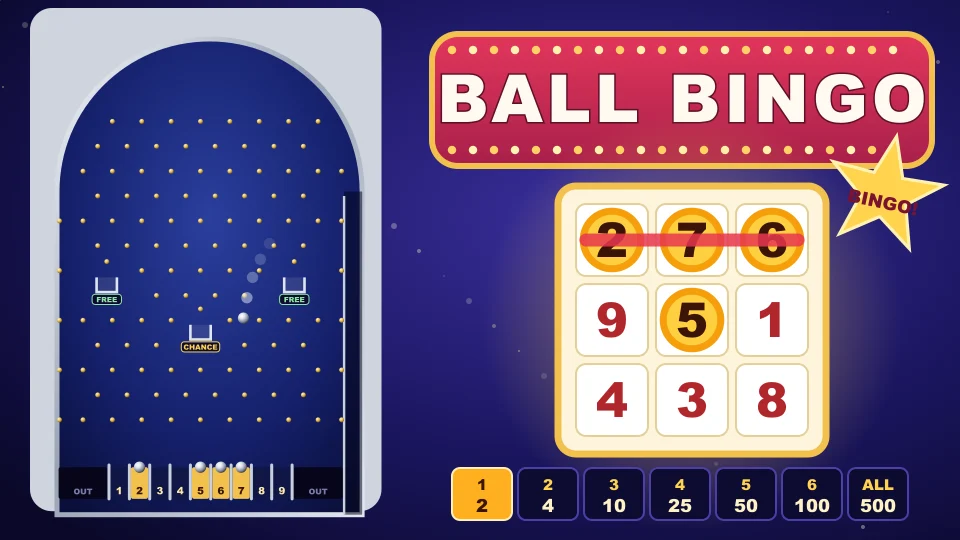
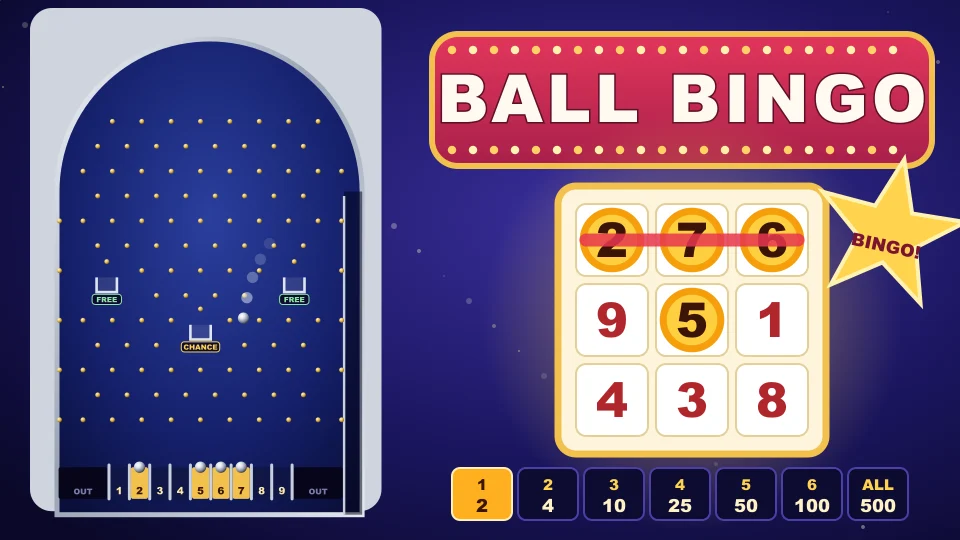
test(ball-bingo): each game goes into My Page; the cover's star says BINGO! in full

Changed region(s): [[0.8438, 0.237, 1.0, 0.563]]

diff --git a/tests/e2e/ball-bingo.spec.ts b/tests/e2e/ball-bingo.spec.ts
@@ -3,6 +3,7 @@ import { test, expect, type Page } from '@playwright/test';
 import { POCKETS, pocketOfNumber, randomsFor } from '../../src/components/game/BallBingo/engine';
 import { ROUND_KEY, parseRound } from '../../src/components/game/BallBingo/medals';
 import { WELCOME } from '../../src/components/game/MedalCenter/ledger';
+import { MY_PAGE_PATH } from '../../src/components/game/MedalCenter/paths';
 import { NOT_MONEY } from '../../src/components/game/MedalCenter/strings';
 import { bankBalance, openCenter } from './medalCenterPage';
 import { pressUntil } from './pressUntil';
@@ -181,6 +182,30 @@ test.describe('with less motion', () => {
         await context.close();
       }
     }
+  });
+
+  test('each game goes into My Page: what it took and what came back, and Ball Bingo’s own records', async ({ page }) => {
+    test.setTimeout(60_000);
+    await openBingo(page);
+    await start(page, ONE_LINE, 2);
+    await page.getByTestId('bingo-skip').click();
+    await expect(page.getByTestId('bingo-result')).toHaveText('BINGO! 1 line: 4 medals.');
+    await start(page, LOSS, 1);
+    await page.getByTestId('bingo-skip').click();
+    await expect(page.getByTestId('bingo-result')).toHaveText('No line this game.');
+    await expect.poll(() => bankBalance(page)).toBe(WELCOME - 2 + 4 - 1);
+    const response = await page.goto(MY_PAGE_PATH);
+    expect(response?.status()).toBe(200);
+    await arrived(page);
+    await expect(page.getByTestId('mypage-history')).toHaveAttribute('data-loaded', 'true');
+    const entries = page.getByTestId('mypage-entry');
+    await expect(entries).toHaveCount(2);
+    await expect(entries.nth(0)).toHaveAttribute('data-game', 'ball-bingo');
+    await expect(entries.nth(0)).toContainText('Bet 1 · won 0');
+    await expect(entries.nth(1)).toContainText('Bet 2 · won 4');
+    await expect(page.getByTestId('mypage-game-ball-bingo')).toHaveAttribute('data-played', 'true');
+    await expect(page.getByTestId('mypage-game-ball-bingo')).toContainText('Ball Bingo');
+    await expect(page.getByTestId('mypage-ball-bingo-top')).toHaveText('4');
   });
 
   test('the Odds tab shows the exact return and the chance of every count of lines', async ({ page }) => {
